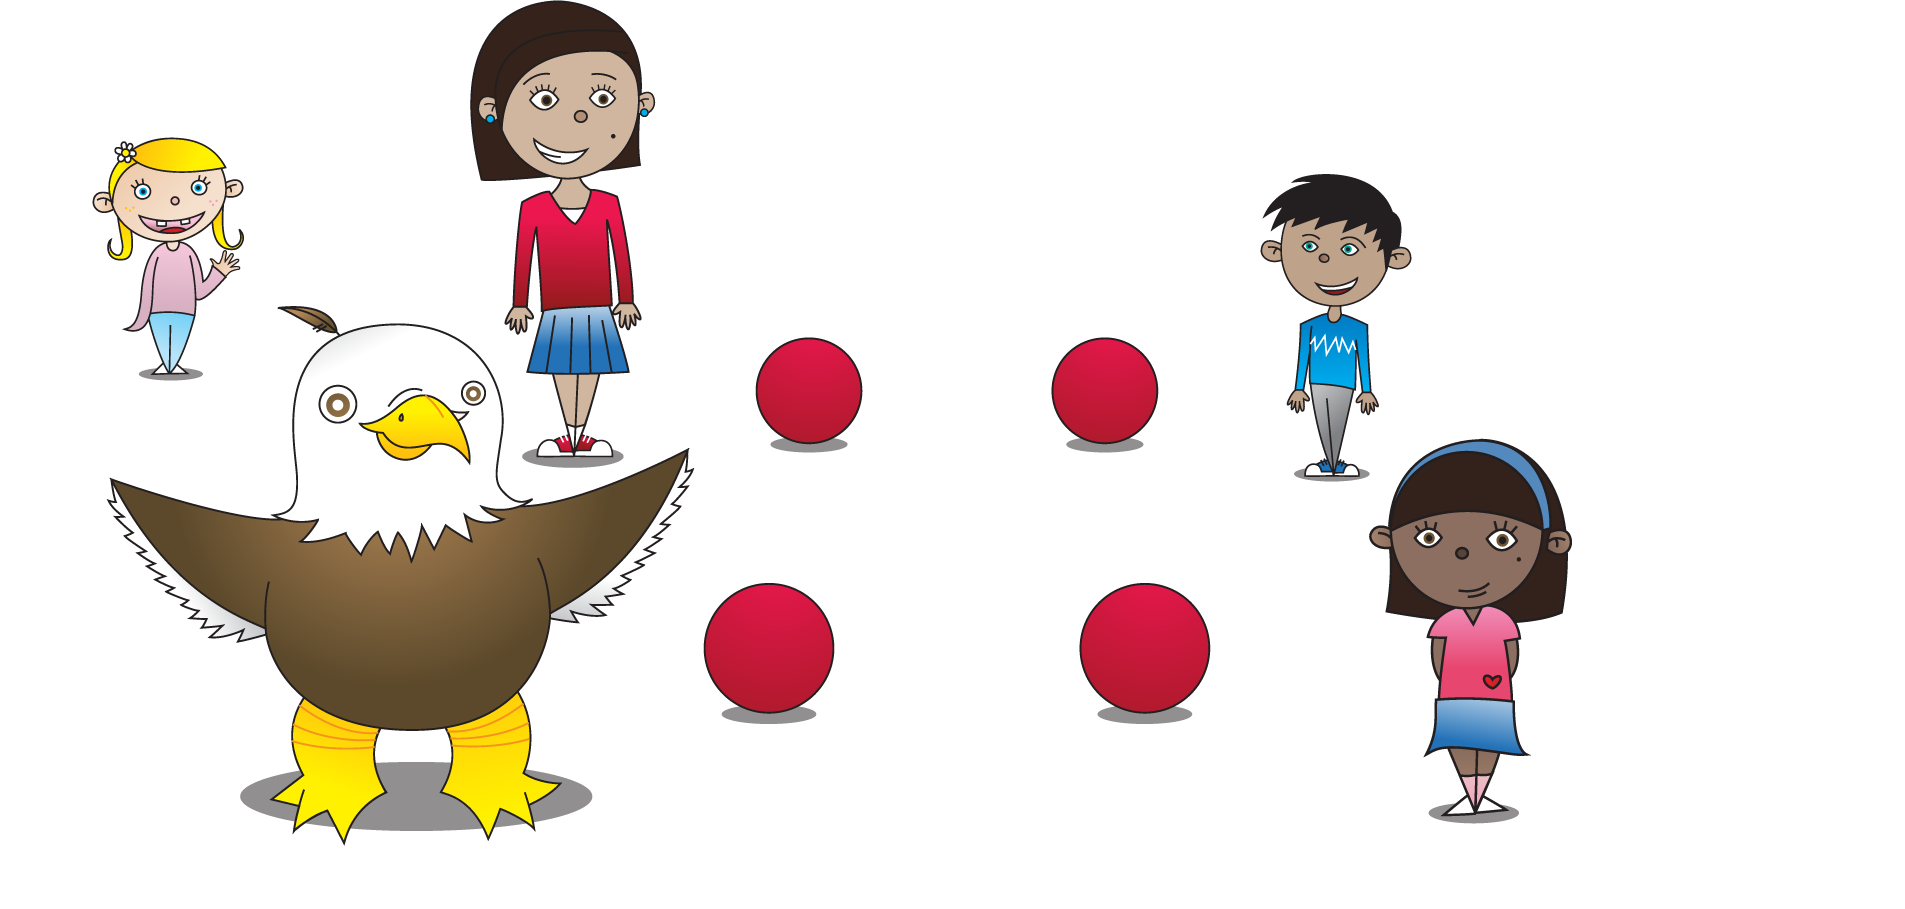
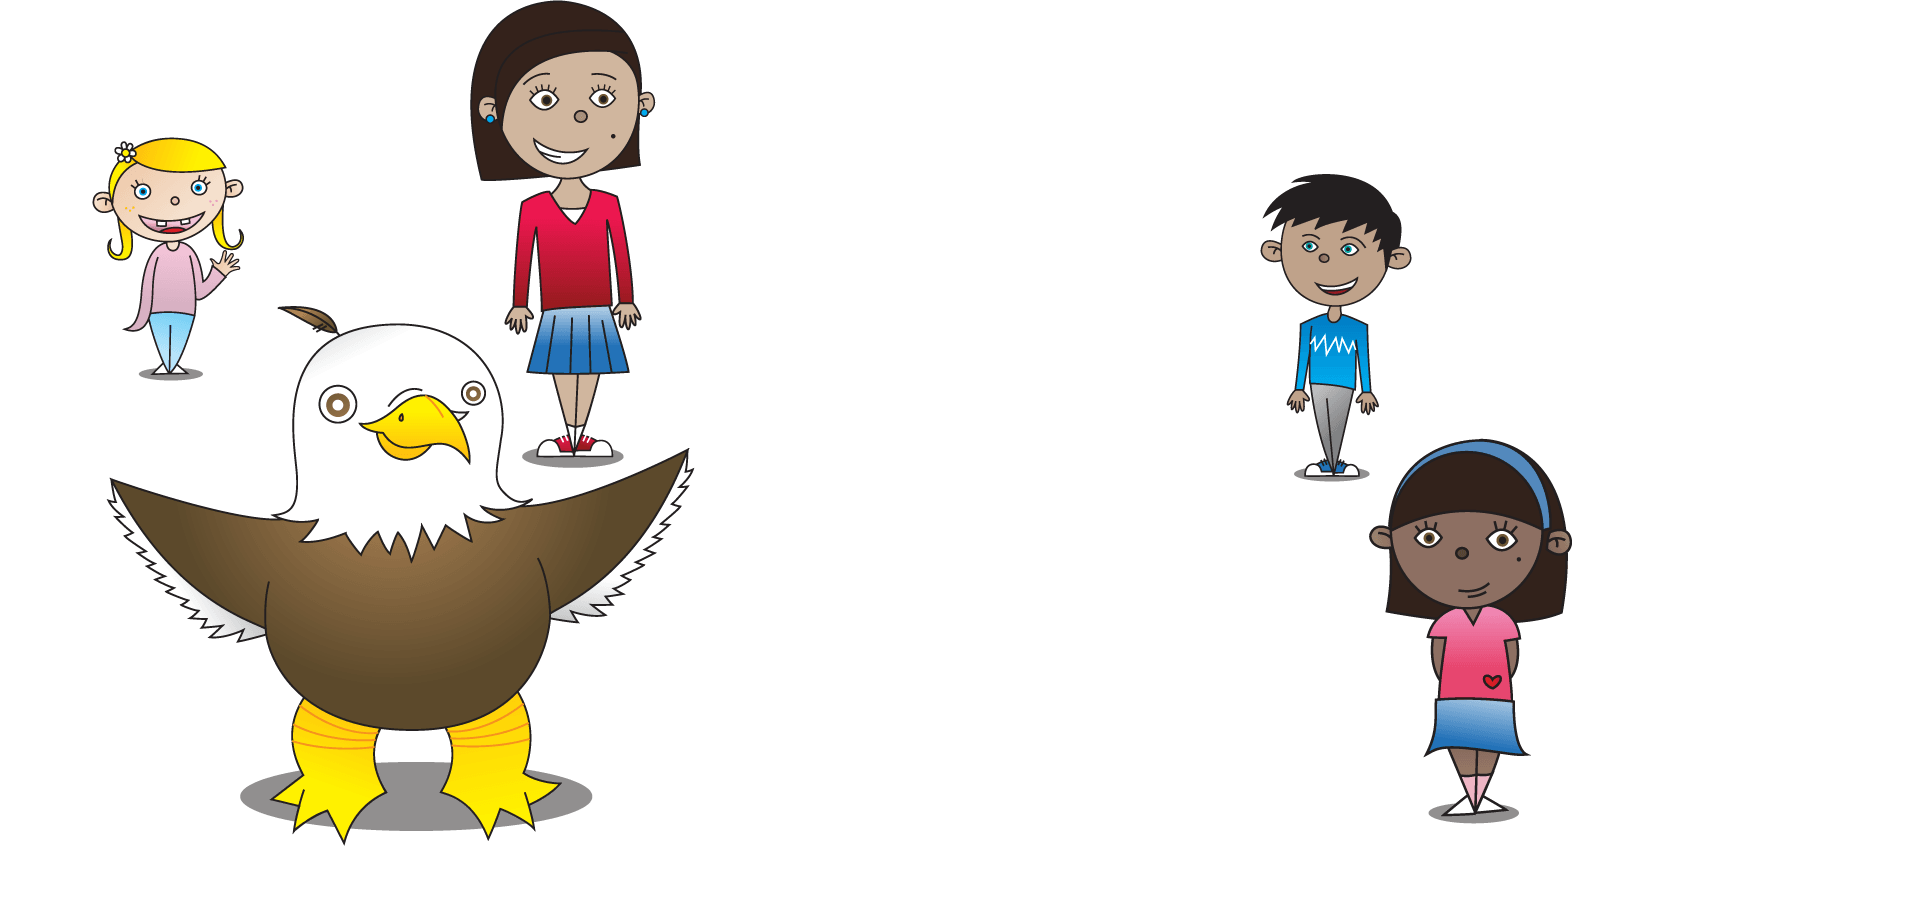
Animate ball and implement functional graphical menu

diff --git a/css/main.css b/css/main.css
@@ -225,6 +225,20 @@ a.need-url {
     display: none;
   }
 
+  .main article header img {
+    margin: 1em 1em 2em 2em;
+  }
+
+  body {
+    background-image: url("../img/bg.jpg");
+    background-position: top center;
+  }
+
+  .header-container,
+  .footer-container {
+    background: transparent;
+  }
+
   .header-container {
     border-bottom: 0;
   }
@@ -233,11 +247,17 @@ a.need-url {
     border-top: 0;
   }
 
-  .header-container,
-  .footer-container {
-    background-image: url("../img/bg.jpg");
-    background-repeat: no-repeat;
-    background-position: top center;
+  .main-container {
+    background-color: white;
+    display: none;
+
+    -webkit-box-shadow: 0 0 50px 0px rgba(50, 50, 50, 0.75);
+    -moz-box-shadow:    0 0 50px 0px rgba(50, 50, 50, 0.75);
+    box-shadow:         0 0 50px 0px rgba(50, 50, 50, 0.75);
+  }
+
+  article {
+    display: none;
   }
 
   nav.textual {
@@ -246,10 +266,63 @@ a.need-url {
 
   nav.graphical {
     display: block;
+    position: relative;
   }
 
   nav.graphical img {
     max-width: 100%;
+  }
+
+  nav.graphical #ball {
+    top: -100%;
+    position: absolute;
+    transition: 1s;
+  }
+
+  nav.graphical #ball.i,
+  nav.graphical #ball.iii {
+    max-height: 16.3%;
+  }
+
+  nav.graphical #ball.ii,
+  nav.graphical #ball.iv {
+    max-height: 12.8%;
+  }
+
+  nav.graphical .click-target {
+    cursor: pointer;
+    position: absolute;
+  }
+
+  nav.graphical .click-target.hover {
+  }
+
+  nav.graphical .click-target.i {
+    height: 42%;
+    width: 50%;
+    bottom: 0;
+    left: 0;
+  }
+
+  nav.graphical .click-target.ii {
+    height: 58%;
+    width: 50%;
+    top: 0;
+    left: 0;
+  }
+
+  nav.graphical .click-target.iii {
+    height: 42%;
+    width: 50%;
+    bottom: 0;
+    right: 0;
+  }
+
+  nav.graphical .click-target.iv {
+    height: 58%;
+    width: 50%;
+    top: 0;
+    right: 0;
   }
 }
 

diff --git a/js/main.js b/js/main.js
@@ -1,3 +1,64 @@
+function moveBallTo(id) {
+  var $ball = $('#ball');
+  var classes = {
+    i: {
+      left: '37%',
+      top: '58%'
+    },
+    ii: {
+      left: '39%',
+      top: '34%'
+    },
+    iii: {
+      left: '56%',
+      top: '59%'
+    },
+    iv: {
+      left: '56%',
+      top: '34%'
+    }
+  };
+
+  $.each(classes, function(klass, css) {
+    console.debug(klass, css);
+    if (klass === id) {
+      $ball.addClass(klass);
+      $ball.css(css);
+    } else {
+      $ball.removeClass(klass);
+    }
+  });
+}
+
+function showPage(id) {
+  var scrollSpeed = 1000;
+
+  $.scrollTo(0, $('.main-container:visible').length ? scrollSpeed : 0, {
+    onAfter: function() {
+      $('.main-container').hide();
+      $('article').hide();
+
+      moveBallTo(id);
+
+      window.setTimeout(function() {
+        $('article#' + id).show();
+        $('.main-container').show();
+        $.scrollTo('.main-container', scrollSpeed);
+      }, 1000);
+    }
+  });
+}
+
 imagesLoaded('body', function() {
   $('body').fadeIn('slow');
+});
+
+$(function() {
+  $('.click-target', 'nav.graphical').hover(function(e) {
+    $(this).addClass('hover');
+  }, function(e) {
+    $(this).removeClass('hover');
+  }).click(function(e) {
+    showPage($(this).data('id'));
+  });
 });

diff --git a/index.html b/index.html
@@ -37,7 +37,12 @@
           </ul>
         </nav>
         <nav class="graphical">
-          <img src="img/nav.png">
+          <img id="ball" src="img/ball.png" alt="">
+          <div class="click-target i" data-id="i"></div>
+          <div class="click-target ii" data-id="ii"></div>
+          <div class="click-target iii" data-id="iii"></div>
+          <div class="click-target iv" data-id="iv"></div>
+          <img src="img/nav.png" alt="">
         </nav>
       </header>
     </div>
@@ -369,6 +374,7 @@
     <script src="//ajax.googleapis.com/ajax/libs/jquery/1.11.0/jquery.min.js"></script>
     <script>window.jQuery || document.write('<script src="js/vendor/jquery-1.11.0.min.js"><\/script>')</script>
 
+    <script src="js/vendor/jquery.scrollTo.min.js"></script>
     <script src="js/vendor/imagesloaded.pkgd.min.js"></script>
     <script src="js/main.js"></script>
   </body>
